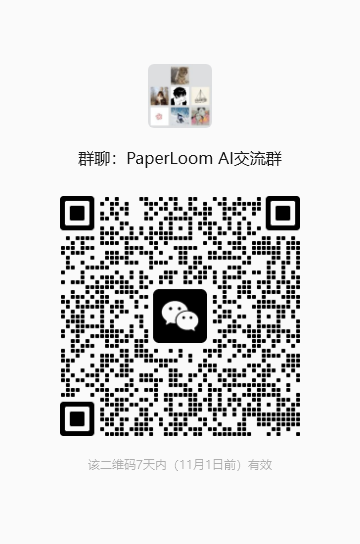
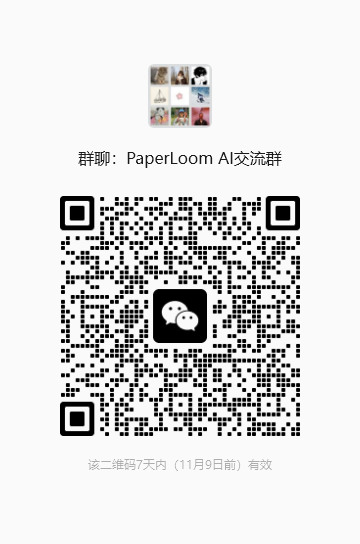
docs: refresh community QR code through November 9

Changed region(s): [[0.1528, 0.3438, 0.8556, 0.8125], [0.3972, 0.125, 0.5806, 0.25]]

diff --git a/README.vi.md b/README.vi.md
@@ -232,7 +232,7 @@ PaperLoom được phát hành theo [GNU AGPL-3.0](LICENSE). Mỗi bản phát h
 
 ## Cộng đồng PaperLoom
 
-Mã QR nhóm hiện tại hết hạn vào **ngày 1 tháng 11 năm 2026**. Nếu mã đã hết hạn, hãy liên hệ người duy trì qua mã WeChat cá nhân ở bên phải.
+Mã QR nhóm hiện tại có hiệu lực trước **ngày 9 tháng 11 năm 2026**. Nếu mã đã hết hạn, hãy liên hệ người duy trì qua mã WeChat cá nhân ở bên phải.
 
 <table>
   <tr>

diff --git a/README.en.md b/README.en.md
@@ -232,7 +232,7 @@ PaperLoom is released under the [GNU AGPL-3.0](LICENSE). Every official release 
 
 ## PaperLoom community
 
-The current community QR code expires on **November 1, 2026**. If it has expired, contact the maintainer through the personal WeChat code on the right.
+The current community QR code is valid before **November 9, 2026**. If it has expired, contact the maintainer through the personal WeChat code on the right.
 
 <table>
   <tr>

diff --git a/README.md b/README.md
@@ -235,7 +235,7 @@ PaperLoom 以 [GNU AGPL-3.0](LICENSE) 发布。每个正式版本都会同时提
 
 ## PaperLoom 交流群
 
-当前交流群二维码在 **2026 年 11 月 1 日前** 有效。如二维码已过期，可通过右侧个人微信联系维护者。
+当前交流群二维码在 **2026 年 11 月 9 日前** 有效。如二维码已过期，可通过右侧个人微信联系维护者。
 
 <table>
   <tr>
